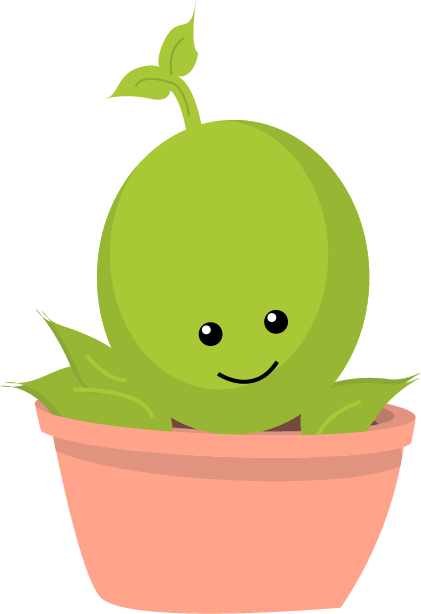
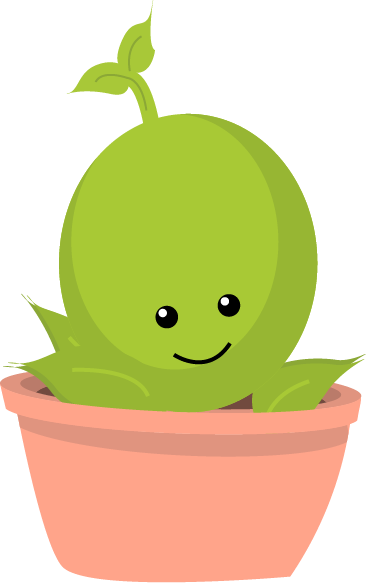
plant changes with button press

diff --git a/florish/lib/main.dart b/florish/lib/main.dart
@@ -21,11 +21,9 @@ class MyApp extends StatelessWidget {
     return MaterialApp(
         title: 'Plant Nanny',
         theme: ThemeData(fontFamily: 'Montserrat'),
-        home: AppHome()
-    );
+        home: AppHome());
   }
 }
-
 
 class AppHome extends StatelessWidget {
   @override
@@ -54,7 +52,7 @@ class AppHome extends StatelessWidget {
                 ),
                 // BAC variable
                 Text(
-                  '0.00', // TODO: substitute for BAC Variable
+                  globals.bac.toString(),
                   style: TextStyle(
                     fontSize: 20,
                     color: Colors.white,
@@ -73,32 +71,18 @@ class AppHome extends StatelessWidget {
       ),
     );
 
-    Widget drinkEntryButtons = Container(
-      padding: const EdgeInsets.all(32),
-      child: Row(
-        mainAxisAlignment: MainAxisAlignment.spaceEvenly,
-        children: <Widget>[
-          new DrinkButton(),
-          Spacer(),
-          new WaterButton(),
-        ],
-      ),
-    );
-
-
-
     Widget plant = Stack(
       alignment: Alignment.bottomCenter,
       children: [
-        Image.asset(
-          'assets/images/plantSetting.png',
-          height: 344,
-          width: 375,
+        Container(
+          padding: const EdgeInsets.only(bottom: 100),
+          child: Image.asset(
+            'assets/images/plantSetting.png',
+          ),
         ),
-        new Plant()
+        new Plant(),
       ],
     );
-
 
     Widget menu = Drawer(
       child: Container(
@@ -234,7 +218,6 @@ class AppHome extends StatelessWidget {
         children: [
           bacHeader,
           plant,
-          drinkEntryButtons,
         ],
       ),
     );
@@ -247,27 +230,52 @@ class Plant extends StatefulWidget {
 }
 
 class _PlantState extends State<Plant> {
+  String imageName = 'assets/images/plants/drink0water0.png';
 
-  void _handleDrinkCounted(int drinkCount) {
+  @override
+  void initState() {
+    super.initState();
+  }
+
+  _updateImageName(String path) {
     setState(() {
-      globals.drinkCount = drinkCount;
+      imageName = path;
+      print(imageName);
     });
   }
 
   @override
   Widget build(context) {
-    return Image.asset(
-        'assets/images/plants/drink${globals.drinkCount}water${globals
-            .waterCount}.png',
-        width: 180
+    return Column(
+      children: [
+        Container(
+          padding: EdgeInsets.only(bottom: 50),
+          child: Image.asset(imageName, width: 180),
+        ),
+        Row(
+          mainAxisAlignment: MainAxisAlignment.center,
+          children: <Widget>[
+            Expanded(
+              child: new DrinkButton(
+                parentAction: _updateImageName,
+              ),
+            ),
+            Expanded(
+              child: new WaterButton(
+                parentAction: _updateImageName,
+              ),
+            ),
+          ],
+        ),
+      ],
     );
   }
 }
 
-
-
-
 class DrinkButton extends StatefulWidget {
+  final ValueChanged<String> parentAction;
+  const DrinkButton({Key key, this.parentAction}) : super(key: key);
+
   @override
   _DrinkButtonState createState() => new _DrinkButtonState();
 }
@@ -275,59 +283,59 @@ class DrinkButton extends StatefulWidget {
 class _DrinkButtonState extends State<DrinkButton> {
   @override
   Widget build(context) {
-    return Stack(
-      alignment: Alignment.center,
-      children: [
-        GestureDetector(
-          onTap: () {
-            setState(() {
-              globals.drinkCount++;
-              // Create variable for grams of alcohol, ontap multiply the number printed on the drink button * 14=g's
-              // [g's/(Weight*r)]
-              // r is gender based, .55 women, .68 men, start with an average to test functionality down the road we could adapt to take gender input
-              // Print text on BAC variable, link events
-            });
-          },
-          child: Stack(
-            alignment: Alignment.center,
-            children: <Widget>[
-              Image.asset(
-                'assets/images/soloCup.png',
-                height: 71,
-                width: 71,
-              ),
-              Text(
-                globals.drinkCount.toString(),
-                style: TextStyle(
-                  fontSize: 25,
-                  color: Colors.black,
-                ),
-              ),
-            ],
+    return GestureDetector(
+      onTap: () {
+        setState(() {
+          if (globals.drinkCount < 4) {
+            globals.drinkCount++;
+          }
+          widget.parentAction(
+              'assets/images/plants/drink${globals.drinkCount}water${globals
+                  .waterCount}.png');
+        });
+      },
+      child: Stack(
+        alignment: Alignment.center,
+        children: <Widget>[
+          Image.asset(
+            'assets/images/soloCup.png',
+            height: 71,
+            width: 71,
           ),
-        ),
-      ],
+          Text(
+            globals.drinkCount.toString(),
+            style: TextStyle(
+              fontSize: 25,
+              color: Colors.black,
+              fontFamily: 'Montserrat',
+            ),
+          ),
+        ],
+      ),
     );
   }
 }
 
-
 class WaterButton extends StatefulWidget {
+  final ValueChanged<String> parentAction;
+  const WaterButton({Key key, this.parentAction}) : super(key: key);
+
   @override
   _WaterButtonState createState() => new _WaterButtonState();
 }
 
 class _WaterButtonState extends State<WaterButton> {
-
   @override
   Widget build(context) {
-    return Stack(
-      alignment: Alignment.center,
-      children: [
-        GestureDetector(
+    return GestureDetector(
           onTap: () {
             setState(() {
-              globals.waterCount++;
+              if (globals.waterCount < 2) {
+                globals.waterCount++;
+              }
+              widget.parentAction(
+                  'assets/images/plants/drink${globals.drinkCount}water${globals
+                      .waterCount}.png');
             });
           },
           child: Stack(
@@ -348,15 +356,9 @@ class _WaterButtonState extends State<WaterButton> {
               ),
             ],
           ),
-        ),
-      ],
     );
   }
 }
-
-
-
-
 
 //Widget plant = Stack(
 //  alignment: Alignment.bottomCenter,
@@ -373,5 +375,3 @@ class _WaterButtonState extends State<WaterButton> {
 //    ),
 //  ],
 //);
-
-

diff --git a/florish/lib/globals.dart b/florish/lib/globals.dart
@@ -3,4 +3,4 @@ library globals;
 int waterCount = 0;
 int drinkCount = 0;
 
-int bac = 0;
+double bac = 0.00;
